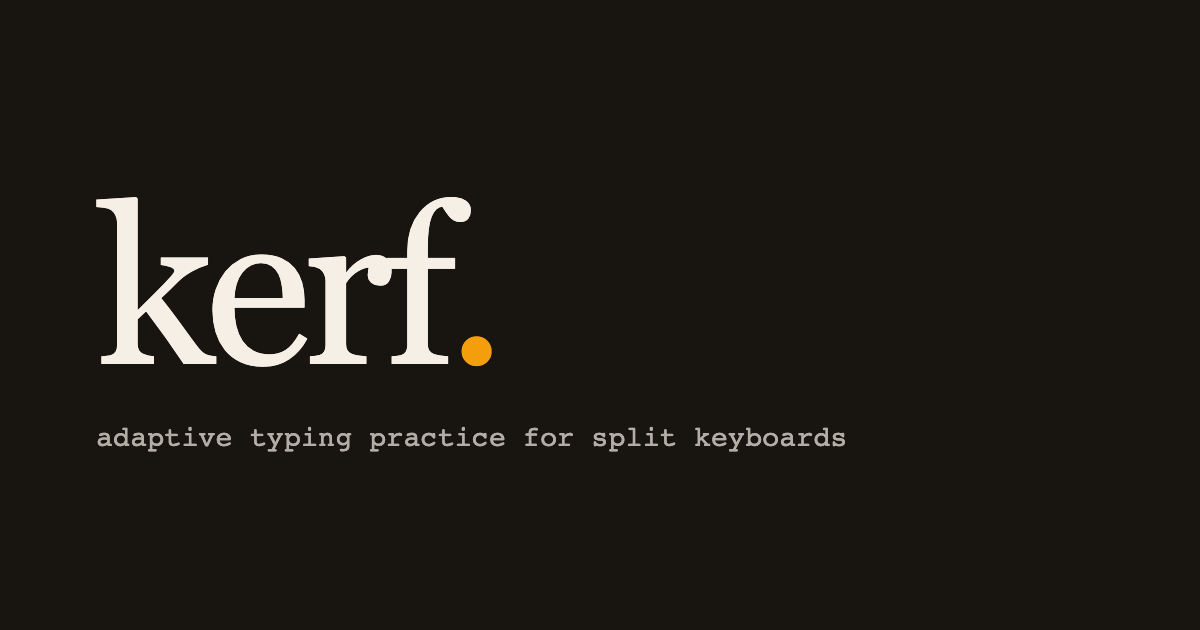
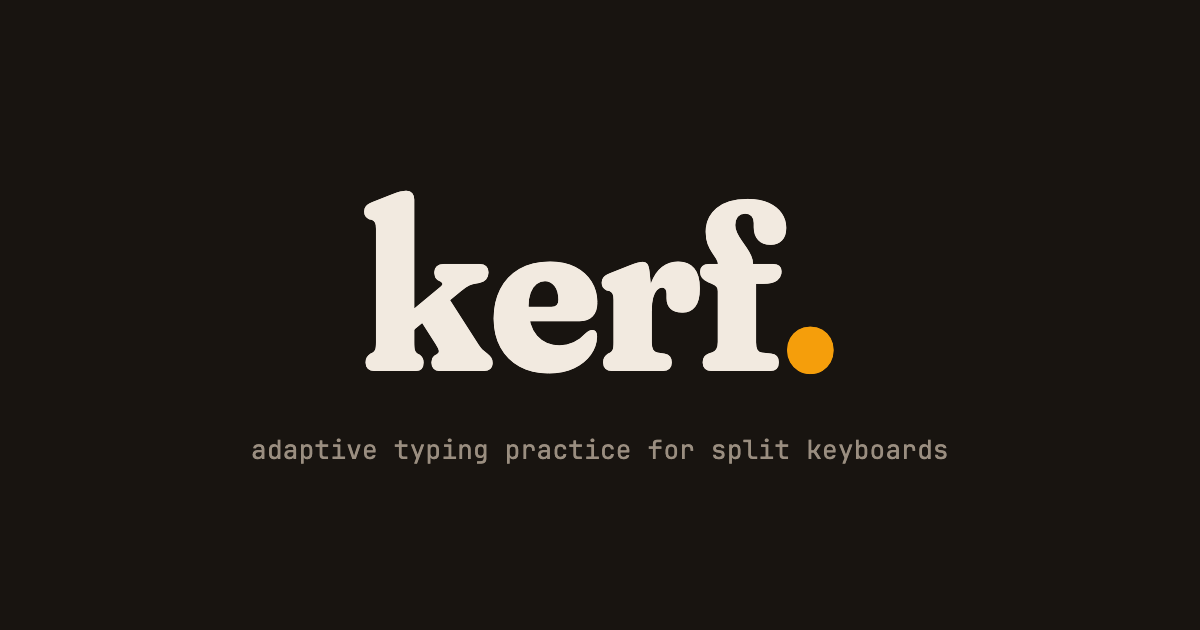
fix(seo): rerender og-image with canonical kerf brand styling
Previous image rendered in Georgia (the fallback) because Fraunces
was never loaded — and used the wrong values regardless: weight 100
instead of 700, letter-spacing -0.04em instead of -0.01em, color
#f5efe6 instead of the real --color-kerf-text-primary (#F2EAE0),
and no font-variation-settings so the SOFT 100 axis was unset.

This commit:
- Adds @font-face declarations referencing the self-hosted Fraunces
  and JetBrainsMono variable woff2 files at ../public/fonts/
- Mirrors .kerf-nav-logo from src/styles.css exactly: weight 700,
  font-variation-settings 'opsz' 144, 'SOFT' 100, letter-spacing
  -0.01em, color #F2EAE0
- Centers the composition and uses --color-kerf-text-secondary
  (#9A8E80) for the tagline in JetBrains Mono
- Waits for document.fonts.ready before screenshotting so Playwright
  doesn't capture the Georgia fallback

Changed region(s): [[0.0617, 0.3016, 0.7092, 0.6032], [0.0617, 0.6635, 0.8017, 0.754]]

diff --git a/scripts/og-image.html b/scripts/og-image.html
@@ -4,11 +4,34 @@
     <meta charset="utf-8" />
     <title>kerf og-image</title>
     <style>
-      :root {
-        --bg: #181410;
-        --fg: #f5efe6;
-        --accent: #f59e0b;
+      /*
+        Self-hosted variable fonts mirrored from /public/fonts/. The
+        relative path works when this file is loaded via file:// from
+        the repo root (Playwright opens it that way). Fraunces axes:
+        opsz 144 (display optical size), SOFT 100 (the soft variant
+        kerf uses for its wordmark per CLAUDE.md §B5).
+      */
+      @font-face {
+        font-family: "Fraunces";
+        src: url("../public/fonts/Fraunces-Variable.woff2") format("woff2-variations");
+        font-weight: 100 900;
+        font-style: normal;
       }
+      @font-face {
+        font-family: "JetBrains Mono";
+        src: url("../public/fonts/JetBrainsMono-Variable.woff2") format("woff2-variations");
+        font-weight: 100 800;
+        font-style: normal;
+      }
+
+      :root {
+        /* Tokens mirror src/styles.css exactly. */
+        --bg: #181410;          /* --color-kerf-bg-base */
+        --fg: #F2EAE0;          /* --color-kerf-text-primary */
+        --muted: #9A8E80;       /* --color-kerf-text-secondary */
+        --accent: #F59E0B;      /* --color-kerf-amber-base */
+      }
+
       * { box-sizing: border-box; }
       html, body {
         margin: 0;
@@ -17,38 +40,44 @@
         height: 630px;
         background: var(--bg);
         color: var(--fg);
-        font-family: ui-sans-serif, system-ui, -apple-system, sans-serif;
       }
       .frame {
         width: 1200px;
         height: 630px;
         display: flex;
         flex-direction: column;
+        align-items: center;
         justify-content: center;
         padding: 96px;
+        gap: 28px;
       }
-      h1 {
+      .wordmark {
+        /* Mirrors .kerf-nav-logo from src/styles.css, scaled up. */
         font-family: "Fraunces", Georgia, serif;
-        font-weight: 100;
-        font-size: 220px;
-        letter-spacing: -0.04em;
-        margin: 0 0 24px 0;
+        font-weight: 700;
+        font-variation-settings: "opsz" 144, "SOFT" 100;
+        font-size: 240px;
         line-height: 1;
+        letter-spacing: -0.01em;
+        margin: 0;
+        display: inline-flex;
+        align-items: baseline;
       }
       .dot { color: var(--accent); }
-      p {
+      .tagline {
         font-family: "JetBrains Mono", ui-monospace, SFMono-Regular, monospace;
-        font-size: 28px;
-        color: rgba(245, 239, 230, 0.7);
+        font-size: 26px;
+        color: var(--muted);
         margin: 0;
         letter-spacing: 0.01em;
+        font-weight: 400;
       }
     </style>
   </head>
   <body>
     <div class="frame">
-      <h1>kerf<span class="dot">.</span></h1>
-      <p>adaptive typing practice for split keyboards</p>
+      <div class="wordmark">kerf<span class="dot">.</span></div>
+      <div class="tagline">adaptive typing practice for split keyboards</div>
     </div>
   </body>
 </html>
